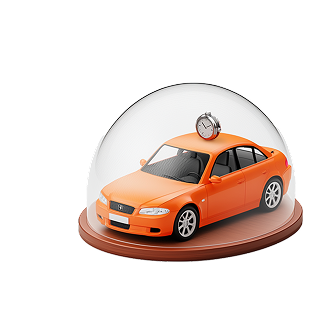
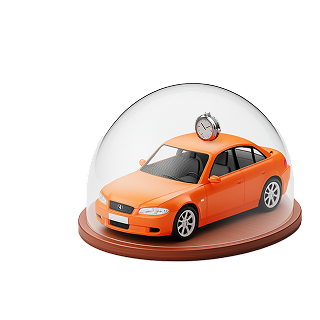
자동차보험 설계입력 상단 이미지 수정

diff --git a/src/css/contents/MPRMTPS10002010000.scss b/src/css/contents/MPRMTPS10002010000.scss
@@ -11,7 +11,7 @@
 	padding: 0 24px 60px;
 
 	//자동차보험
-	background: url(../images/content/mtps/img_MPRMTPS10002010000.png) no-repeat right bottom 26px / 156px auto;
+	background: url(../images/content/mtps/img_MPRMTPS10002010000.png) no-repeat right bottom 26px / 160px auto;
 
 
 	.logo {
